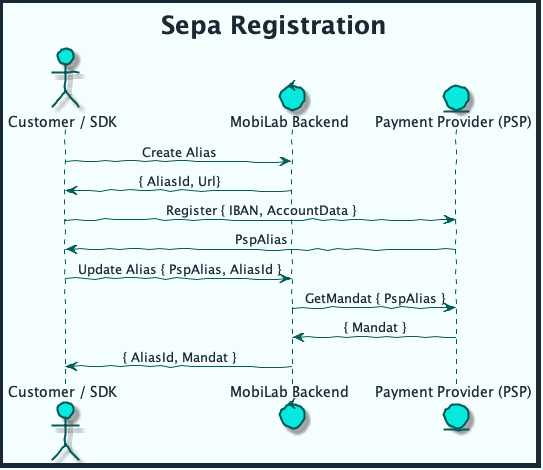
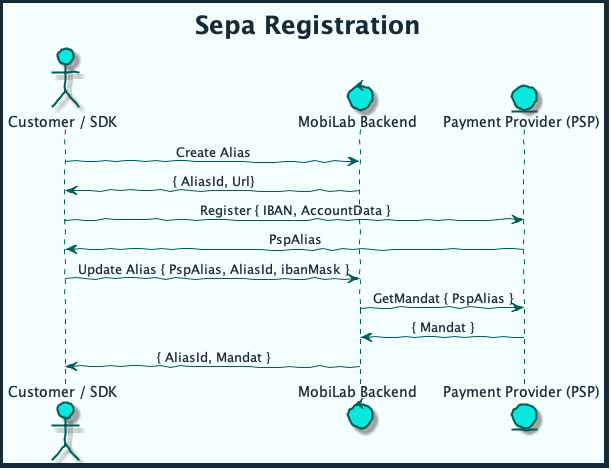
update Alias additional params

diff --git a/API.md b/API.md
@@ -111,9 +111,9 @@ Maybe Put the idempotentKey in the Url or Body, could make the usage easier, and
 
 - GET /api/v1/transactions/{transactionId}  
   Header: Keycloak JWT Token  
-  -> 200 { transactionId, pspId, paymentMethod, ccMask, ccExpiryDate, ccType, initialReason, currencyId, balance, merchantPurchaseId, merchantCustomerId, createdAt, refundedAt, chargebackAt, status, events: [ { action, status, amount, currency, reason, createdAt }] } | 401 | 403 | 404
+  -> 200 { transactionId, pspId, paymentMethod, ccMask, ccExpiryDate, ccType, ibanMask, initialReason, currencyId, balance, merchantPurchaseId, merchantCustomerId, createdAt, refundedAt, chargebackAt, status, events: [ { action, status, amount, currency, reason, createdAt }] } | 401 | 403 | 404
 
 - GET /api/v1/transactions  
   Header: Keycloak JWT Token  
-  Query: { pspId, paymentMethod, ccMask, ccExpiryDate, ccExpiryDateStart, ccExpiryDateEnd, ccType, initialReason, currencyId, balanceStart, balanceEnd, merchantPurchaseId, merchantCustomerId, createdAtStart, createdAtEnd, status, refundedAtStart, refundedAtEnd, chargebackAtStart, chargebackAtEnd, hasEvent, hasNotEvent, offset, pageSize }  
+  Query: { pspId, paymentMethod, ccMask, ccExpiryDate, ccExpiryDateStart, ccExpiryDateEnd, ccType, ibanMask, initialReason, currencyId, balanceStart, balanceEnd, merchantPurchaseId, merchantCustomerId, createdAtStart, createdAtEnd, status, refundedAtStart, refundedAtEnd, chargebackAtStart, chargebackAtEnd, hasEvent, hasNotEvent, offset, pageSize }  
   -> 200 { count, offset, pageSize, data: [ { ...TransactionDetail } ]}
